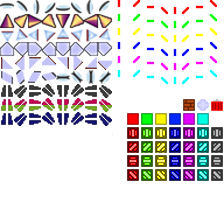
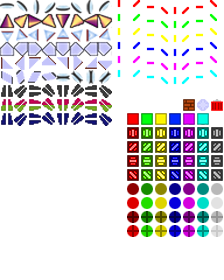
pezzo goal
git-svn-id: svn+ssh://pixbits.com/svn/cpp-lazers@21 c3e5c5ec-6158-4a85-881a-c4ab5472a772

diff --git a/pieces.h b/pieces.h
@@ -83,6 +83,8 @@ class Piece
     virtual bool canBeMoved() = 0;
     virtual bool canBeRotated() = 0;
   
+    virtual void moved() { }
+  
     SDL_Rect gfxRect()
     {
       Position tile = gfxTile();
@@ -354,6 +356,66 @@ public:
   bool canBeRotated() { return roteable; }
   
   Position gfxTile() { return Position{rotation_, 7}; }
+};
+
+class Goal : public Piece
+{
+  protected:
+    bool satisfied;
+    u8 satisfyDirection;
+    LaserColor satisfyColor;
+  
+  public:
+    Goal(PieceType type, LaserColor color, Field *field);
+  
+    bool produceLaser() = 0;
+    bool blocksLaser(Laser &laser) = 0;
+    void receiveLaser(Laser &laser) = 0;
+    
+    bool canBeMoved() { return movable; }
+    bool canBeRotated() { return roteable; }
+  
+    bool isSatisfied() { return satisfied; }
+    void reset() {
+      satisfied = false;
+      satisfyColor = COLOR_NONE;
+      satisfyDirection = 0;
+    }
+  
+    void moved() {
+      satisfyColor = COLOR_NONE;
+      satisfyDirection = 0;
+    }
+  
+    Position gfxTile() = 0;
+};
+
+class StrictGoal : public Goal
+{
+  private:
+    
+  public:
+    StrictGoal(LaserColor color, Field *field) : Goal(PIECE_STRICT_GOAL, color, field) { }
+
+    bool produceLaser() { return false; }
+    bool blocksLaser(Laser &laser) { UNUSED(laser); return false; }
+    void receiveLaser(Laser &laser)
+    {
+      satisfyColor = static_cast<LaserColor>(satisfyColor | laser.color);
+      satisfyDirection |= 1 << laser.direction;
+      
+      u8 foundDirections = 0;
+      for (int i = 0; i < 4; ++i)
+        if ((satisfyDirection & 1<<(4+i)) || (satisfyDirection & 1<<(i)))
+          ++foundDirections;
+      
+      satisfied = (satisfyColor == color_) && (foundDirections == 1);
+    }
+  
+    bool canBeMoved() { return movable; }
+    bool canBeRotated() { return roteable; }
+    
+    Position gfxTile() { return Position{color_+8, isSatisfied() ? 14 : 13}; }
 };
 
 

diff --git a/lazers.h b/lazers.h
@@ -118,6 +118,7 @@ class Field
     Tile *tiles;
     Tile *inventory;
     std::list<Laser> lasers;
+    std::list<Goal*> goals;
   
   public:
     Field() : tiles(new Tile[FIELD_WIDTH*FIELD_HEIGHT]), inventory(new Tile[INVENTORY_WIDTH*INVENTORY_HEIGHT])
@@ -153,6 +154,7 @@ class Field
       tileAt(3,14)->place(new Tunnel(NORTH, this));
       tileAt(4,14)->place(new ColorShifter(NORTH, this));
       tileAt(5,14)->place(new ColorInverter(NORTH, this));
+      tileAt(6,14)->place(new StrictGoal(COLOR_MAGENTA, this));
 
 
       tileAt(3,3)->place(new Mirror(NORTH, this));
@@ -165,6 +167,7 @@ class Field
       tileAt(5,2)->place(new Wall(this));
       tileAt(6,2)->place(new Prism(NORTH, this));
       tileAt(7,2)->place(new Bender(this));
+      
 
       updateLasers();
     }
@@ -178,6 +181,8 @@ class Field
     }
   
     Tile* tileAt(Position p) { return tileAt(p.x, p.y); }
+  
+    void addGoal(Goal *goal) { goals.push_back(goal); }
   
     void generateBeam(Position position, Direction direction, LaserColor color);
     void updateLasers();

diff --git a/lazers.cpp b/lazers.cpp
@@ -223,6 +223,9 @@ void Field::generateBeam(Position position, Direction direction, LaserColor colo
 
 void Field::updateLasers()
 {
+  for (auto g : goals)
+    g->reset();
+  
   for (int i = 0; i < FIELD_WIDTH; ++i)
     for (int j = 0; j < FIELD_HEIGHT; ++j)
     {
@@ -351,12 +354,18 @@ void Game::handleEvents()
             {
               Piece *tmpPiece = selectedTile_->piece();
               
-              if (!tmpPiece || tmpPiece->canBeMoved())
+              if (!curTile->piece() || curTile->piece()->canBeMoved())
               {
                 selectedTile_->place(curTile->piece());
                 curTile->place(tmpPiece);
                 //std::swap(selectedTile_->piece, curTile->piece);
+
+                tmpPiece->moved();
+                if (selectedTile_->piece())
+                  selectedTile_->piece()->moved();
+                
                 selectedTile_ = nullptr;
+ 
                 field_.updateLasers();
               }
             }

diff --git a/common.h b/common.h
@@ -16,18 +16,18 @@ typedef unsigned short u16;
 typedef signed char s8;
 typedef signed short s16;
 
-static const u16 FIELD_WIDTH = 15;
+static const u16 FIELD_WIDTH = 16;
 static const u16 FIELD_HEIGHT = 15;
 
-static const u16 INVENTORY_WIDTH = 6;
-static const u16 INVENTORY_HEIGHT = 4;
+static const u16 INVENTORY_WIDTH = 4;
+static const u16 INVENTORY_HEIGHT = 6;
 
 static const u16 TILE_SIZE = 15;
 static const u16 PIECE_SIZE = 14;
 
 static const u16 GFX_FIELD_POS_X = 0;
 static const u16 GFX_FIELD_POS_Y = 5;
-static const u16 GFX_INVENTORY_POS_X = TILE_SIZE*FIELD_WIDTH + 4;
+static const u16 GFX_INVENTORY_POS_X = TILE_SIZE*FIELD_WIDTH + 10;
 
 
 
@@ -63,7 +63,10 @@ enum PieceType : u8
   PIECE_POLARIZER,
   PIECE_TUNNEL,
   PIECE_COLOR_SHIFTER,
-  PIECE_COLOR_INVERTER
+  PIECE_COLOR_INVERTER,
+  
+  PIECE_STRICT_GOAL,
+  PIECE_SPLIT_GOAL
 };
   
 enum Direction : u8

diff --git a/pieces.cpp b/pieces.cpp
@@ -78,3 +78,11 @@ void Prism::receiveLaser(Laser &laser)
   
   laser.invalidate();
 }
+
+
+
+
+Goal::Goal(PieceType type, LaserColor color, Field *field) : Piece(type, NORTH, color, field), satisfied(false), satisfyDirection(0), satisfyColor(COLOR_NONE)
+{
+  field->addGoal(this);
+}
